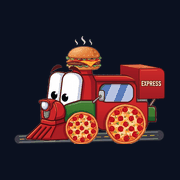
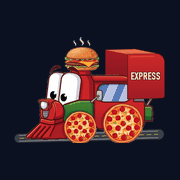
Cajon EXPRESS 50% mas grande, con el costado detras de la cabina
El frente va delante de la parte de atras de la cabina y tapa un poco la
ventana; el costado sigue detras del techo para que se vea parte del tren.

Changed region(s): [[0.0833, 0.1944, 0.9167, 0.8056]]

diff --git a/scripts/preparar-logo.py b/scripts/preparar-logo.py
@@ -173,24 +173,27 @@ def quitar_fondo(original: Image.Image) -> Image.Image:
 # Coordenadas sobre la imagen ya recortada por quitar_fondo().
 
 # La cabina, que se queda donde esta: su borde sigue el contorno oscuro del
-# techo y baja por la pared de atras. Sirve para no borrarla junto al cajon.
-CABINA = [(1380, 508), (1445, 508), (1500, 516), (1560, 543), (1605, 576),
+# techo, desde la chimenea, y baja por la pared de atras. Sirve para no
+# borrarla junto al cajon, y para pintarla encima del costado.
+CABINA = [(1190, 508), (1380, 508), (1445, 508), (1500, 516), (1560, 543), (1605, 576),
           (1632, 618), (1652, 678), (1656, 880)]
 
 # El cajon original que se borra: de x 1438 a la derecha, de y 400 a 841.
 CAJON_ORIGINAL = (1438, 400, 841)
 
-# El frente, la cara con el texto. Empieza donde termina la pared de atras de
-# la cabina, y el costado se aleja hacia la izquierda por DETRAS de la cabina,
-# como en el dibujo original: asi el cajon se ve parte del tren. Abajo se
+# El frente, la cara con el texto: 50% mas grande que la primera version
+# metida en el tren. Tan grande ya no cabe detras de la cabina, asi que el
+# frente va DELANTE de la parte de atras de la cabina y le tapa un poco la
+# ventana. El costado si se aleja por DETRAS del techo, como en el dibujo
+# original: eso es lo que hace que el cajon se vea parte del tren. Abajo se
 # apoya en la repisa gris y el soporte.
-FRENTE_IZQUIERDA, FRENTE_DERECHA = 1676, 2010
-FRENTE_ARRIBA = (436, 428)          # y de arriba en cada extremo
-FRENTE_ALTO = 404
-ESQUINA_ARRIBA = 80                 # la esquina redondeada de arriba a la derecha
-ESQUINA_ABAJO = 22
+FRENTE_IZQUIERDA, FRENTE_DERECHA = 1560, 2060
+FRENTE_ARRIBA = (236, 224)          # y de arriba en cada extremo
+FRENTE_ALTO = 606
+ESQUINA_ARRIBA = 120                # la esquina redondeada de arriba a la derecha
+ESQUINA_ABAJO = 33
 # Hacia donde se aleja la caja, igual que en el dibujo original.
-PROFUNDIDAD = (-250, -48)
+PROFUNDIDAD = (-300, -60)
 CABINA_MARGEN = 4                   # pixeles de mas al volver a pintar la cabina
 GROSOR_CONTORNO = 13                # igual de grueso que el del tren
 
@@ -258,7 +261,8 @@ def _rellenar(lienzo: Image.Image, poligono, arriba, abajo) -> None:
     lienzo.alpha_composite(capa)
 
 
-def dibujar_cajon(ancho: int, alto: int) -> Image.Image:
+def dibujar_cajon(ancho: int, alto: int) -> tuple[Image.Image, Image.Image]:
+    """El cajon, y la mascara de su frente con el contorno incluido."""
     k = AUMENTO
     dx, dy = PROFUNDIDAD
 
@@ -321,7 +325,7 @@ def dibujar_cajon(ancho: int, alto: int) -> Image.Image:
     d.line([z(p) for p in borde_arriba], fill=CONTORNO, width=fino)
 
     # Brillos: bajo la arista del frente y a media tapa.
-    brillo = [z((x, _y_arriba(x) + 26)) for x in range(FRENTE_IZQUIERDA + 30, corte - 10, 10)]
+    brillo = [z((x, _y_arriba(x) + 36)) for x in range(FRENTE_IZQUIERDA + 30, corte - 10, 10)]
     d.line(brillo, fill=BRILLO_FRENTE, width=7 * k)
     media = [(p[0] + dx * 0.55, p[1] + dy * 0.55) for p in borde_arriba[:2]]
     d.line([z(p) for p in media], fill=BRILLO_TAPA, width=6 * k)
@@ -341,7 +345,11 @@ def dibujar_cajon(ancho: int, alto: int) -> Image.Image:
     d.text(z((cx, cy)), TEXTO, font=fuente, anchor='mm',
            fill=LETRA, stroke_width=7 * k, stroke_fill=CONTORNO_LETRA)
 
-    return lienzo.resize((ancho, alto), Image.LANCZOS)
+    solo_frente = Image.new('L', lienzo.size, 0)
+    ImageDraw.Draw(solo_frente).polygon(caras['frente'], fill=255)
+    solo_frente = solo_frente.filter(ImageFilter.MaxFilter(GROSOR_CONTORNO * k | 1))
+    return (lienzo.resize((ancho, alto), Image.LANCZOS),
+            solo_frente.resize((ancho, alto), Image.LANCZOS))
 
 
 def agrandar_cajon(logo: Image.Image) -> Image.Image:
@@ -364,17 +372,18 @@ def agrandar_cajon(logo: Image.Image) -> Image.Image:
     ancho_final = max(ancho, FRENTE_DERECHA + GROSOR_CONTORNO)
     final = Image.new('RGBA', (ancho_final, alto), (0, 0, 0, 0))
     final.alpha_composite(Image.fromarray(pixeles, 'RGBA'))
-    cajon_nuevo = dibujar_cajon(ancho_final, alto)
+    cajon_nuevo, frente = dibujar_cajon(ancho_final, alto)
 
-    # Detras de la cabina, como en el dibujo original: el techo le tapa la
-    # parte de abajo del costado y el cajon queda metido en el tren. La
-    # cabina se vuelve a pintar encima; la mascara se engorda un poco para
+    # El costado va detras de la cabina, como en el dibujo original: el techo
+    # le tapa la parte de abajo. La cabina se vuelve a pintar encima, menos
+    # donde esta el frente, que va delante. La mascara se engorda un poco para
     # que el contorno del techo quede entero.
     final.alpha_composite(cajon_nuevo)
     encima = Image.fromarray(pixeles, 'RGBA')
     tapa_cabina = mascara.filter(ImageFilter.MaxFilter(CABINA_MARGEN * 2 + 1))
-    encima.putalpha(Image.fromarray(
-        np.minimum(pixeles[:, :, 3], np.array(tapa_cabina)), 'L'))
+    alfa = np.minimum(pixeles[:, :, 3], np.array(tapa_cabina)).astype(np.float32)
+    alfa *= 1 - np.array(frente, np.float32)[:alto, :ancho] / 255
+    encima.putalpha(Image.fromarray(alfa.astype(np.uint8), 'L'))
     lienzo_cabina = Image.new('RGBA', (ancho_final, alto), (0, 0, 0, 0))
     lienzo_cabina.alpha_composite(encima)
     final.alpha_composite(lienzo_cabina)
